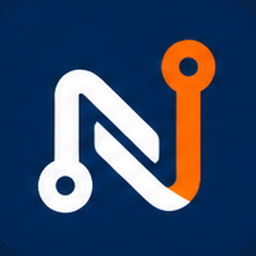
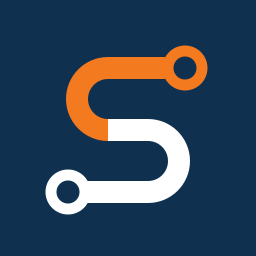
feat: novo nome Rota 4S (antes NowTrace) e novo icone

Changed region(s): [[0.125, 0.125, 0.8438, 0.8438]]

diff --git a/app/portal/page.tsx b/app/portal/page.tsx
@@ -26,7 +26,7 @@ export default async function Portal() {
       <header className="border-b border-white/10 bg-[#10304f]">
         <div className="mx-auto flex h-14 max-w-6xl items-center justify-between px-4">
           <div className="flex items-center gap-2.5">
-            <Image src="/logo.png" alt="NowTrace" width={28} height={28} className="h-7 w-7 shrink-0 rounded-md object-cover" />
+            <Image src="/logo.png" alt="Rota 4S" width={28} height={28} className="h-7 w-7 shrink-0 rounded-md object-cover" />
             <span className="leading-tight">
               <span className="block text-[13px] font-semibold text-white">Portal do cliente</span>
               <span className="block text-[11px] text-white/50">Grupo Now</span>
@@ -40,7 +40,7 @@ export default async function Portal() {
       </header>
       <main className="mx-auto max-w-6xl px-4 py-6">
         <PortalView dados={data as PortalDados} />
-        <p className="mt-8 text-center text-xs text-subtle">Dúvidas sobre o seu processo? Fale com o seu atendimento (CS) da NowTrace.</p>
+        <p className="mt-8 text-center text-xs text-subtle">Dúvidas sobre o seu processo? Fale com o seu atendimento (CS) da Rota 4S.</p>
       </main>
     </div>
   );

diff --git a/components/Sidebar.tsx b/components/Sidebar.tsx
@@ -37,9 +37,9 @@ export default function Sidebar({ nome, cargo, contagens, sair }: { nome: string
   return (
     <aside className="sticky top-0 flex h-screen w-16 shrink-0 flex-col bg-[#10304f] lg:w-[228px]">
       <Link href="/" className="flex h-14 items-center gap-2.5 border-b border-white/10 px-4">
-        <Image src="/logo.png" alt="NowTrace" width={28} height={28} className="h-7 w-7 shrink-0 rounded-md object-cover" />
+        <Image src="/logo.png" alt="Rota 4S" width={28} height={28} className="h-7 w-7 shrink-0 rounded-md object-cover" />
         <span className="hidden leading-tight lg:block">
-          <span className="block text-[13px] font-semibold text-white">NowTrace</span>
+          <span className="block text-[13px] font-semibold text-white">Rota 4S</span>
           <span className="block text-[11px] text-white/50">Central de operações</span>
         </span>
       </Link>

diff --git a/app/login/page.tsx b/app/login/page.tsx
@@ -59,8 +59,8 @@ export default function LoginPage() {
     <main className="grid min-h-screen lg:grid-cols-[1fr_minmax(420px,520px)]">
       <section className="hidden flex-col justify-between bg-[#10304f] p-10 text-white lg:flex">
         <div className="flex items-center gap-2.5">
-          <Image src="/logo.png" alt="NowTrace" width={32} height={32} className="h-8 w-8 shrink-0 rounded-md object-cover" />
-          <span className="text-sm font-semibold">NowTrace</span>
+          <Image src="/logo.png" alt="Rota 4S" width={32} height={32} className="h-8 w-8 shrink-0 rounded-md object-cover" />
+          <span className="text-sm font-semibold">Rota 4S</span>
         </div>
         <div className="max-w-md">
           <h1 className="text-[28px] leading-tight font-semibold">Central de operações dos processos de importação.</h1>

diff --git a/components/portal/PortalView.tsx b/components/portal/PortalView.tsx
@@ -181,7 +181,7 @@ export default function PortalView({ dados }: { dados: PortalDados }) {
   const medias = useMemo(() => new Map(mediasArr.map((m) => [m.ordem, m.media])), [mediasArr]);
   const planos = useMemo(() => [...new Set(procs.map((p) => p.plano).filter(Boolean) as string[])].sort(), [procs]);
 
-  if (!dados) return <EmptyState titulo="Acesso sem cliente vinculado" texto="Fale com a equipe NowTrace para liberar o seu acesso." />;
+  if (!dados) return <EmptyState titulo="Acesso sem cliente vinculado" texto="Fale com a equipe Rota 4S para liberar o seu acesso." />;
 
   const nAnd = procs.filter((p) => grupoDe(p) === "andamento").length;
   const nAg = procs.filter((p) => grupoDe(p) === "aguardando").length;

diff --git a/components/clientes/PortalAcesso.tsx b/components/clientes/PortalAcesso.tsx
@@ -15,7 +15,7 @@ export default function PortalAcesso({ clienteId, contato, usuarios, site }: { c
   const [cred, setCred] = useState<{ usuario: string; senha: string } | null>(null);
 
   const mensagem = cred
-    ? `Olá! Seu acesso ao portal de acompanhamento do NowTrace:\n\nEndereço: ${site}\nUsuário: ${cred.usuario}\nSenha provisória: ${cred.senha}\n\nNo primeiro acesso você vai escolher uma senha nova.`
+    ? `Olá! Seu acesso ao portal de acompanhamento da Rota 4S:\n\nEndereço: ${site}\nUsuário: ${cred.usuario}\nSenha provisória: ${cred.senha}\n\nNo primeiro acesso você vai escolher uma senha nova.`
     : "";
 
   async function criar() {

diff --git a/app/layout.tsx b/app/layout.tsx
@@ -3,7 +3,7 @@ import "@fontsource-variable/inter";
 import "./globals.css";
 
 export const metadata: Metadata = {
-  title: "NowTrace — Central de operações",
+  title: "Rota 4S — Central de operações",
   description: "Controle de processos do time de projetos",
 };
 
